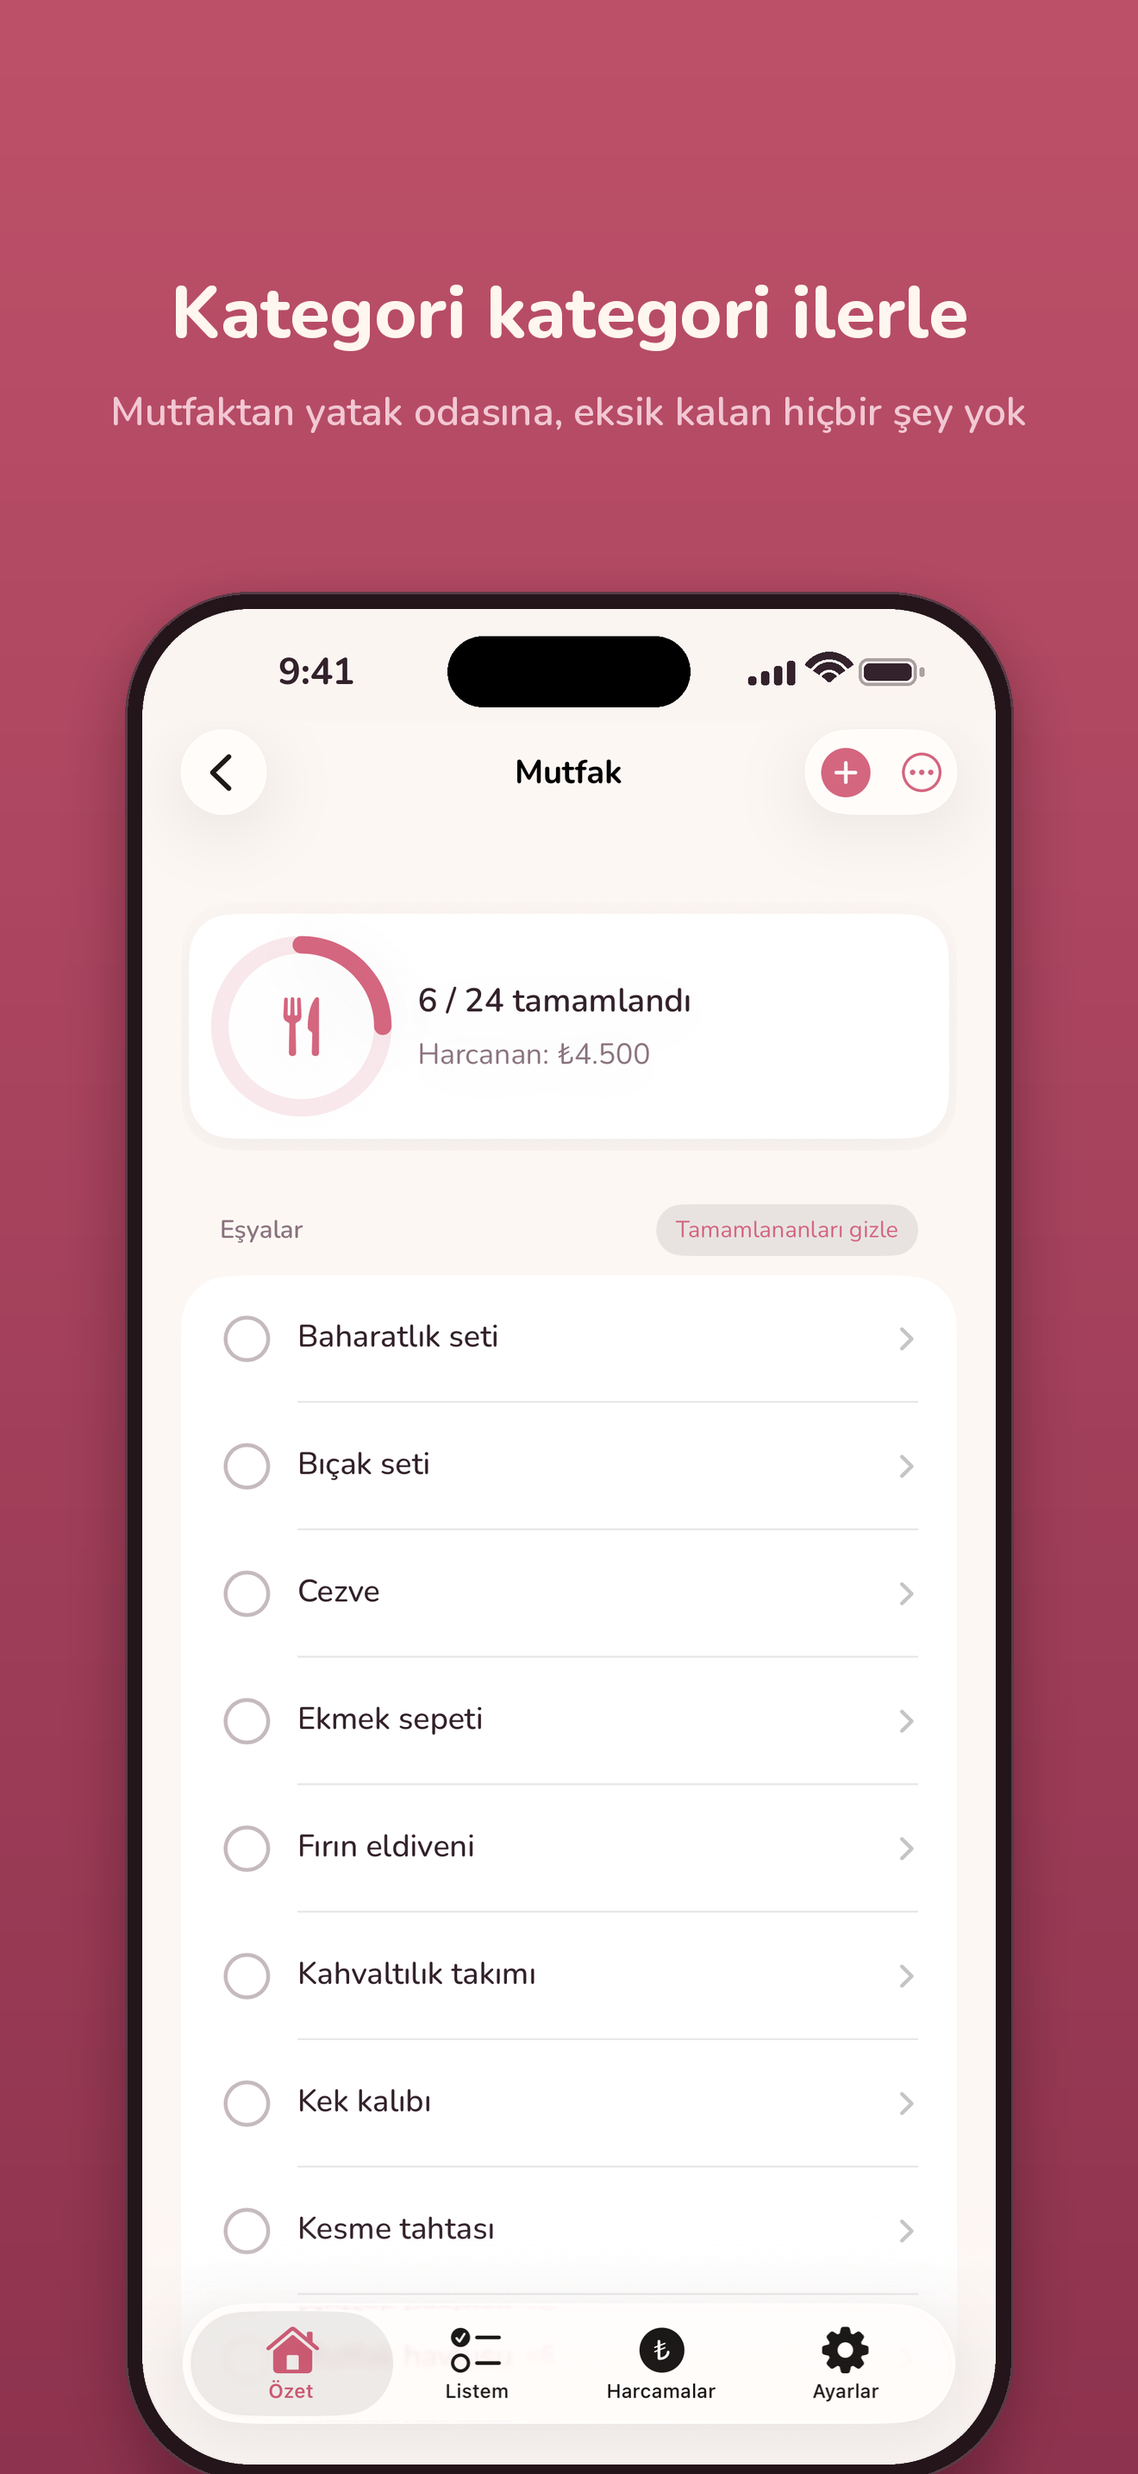
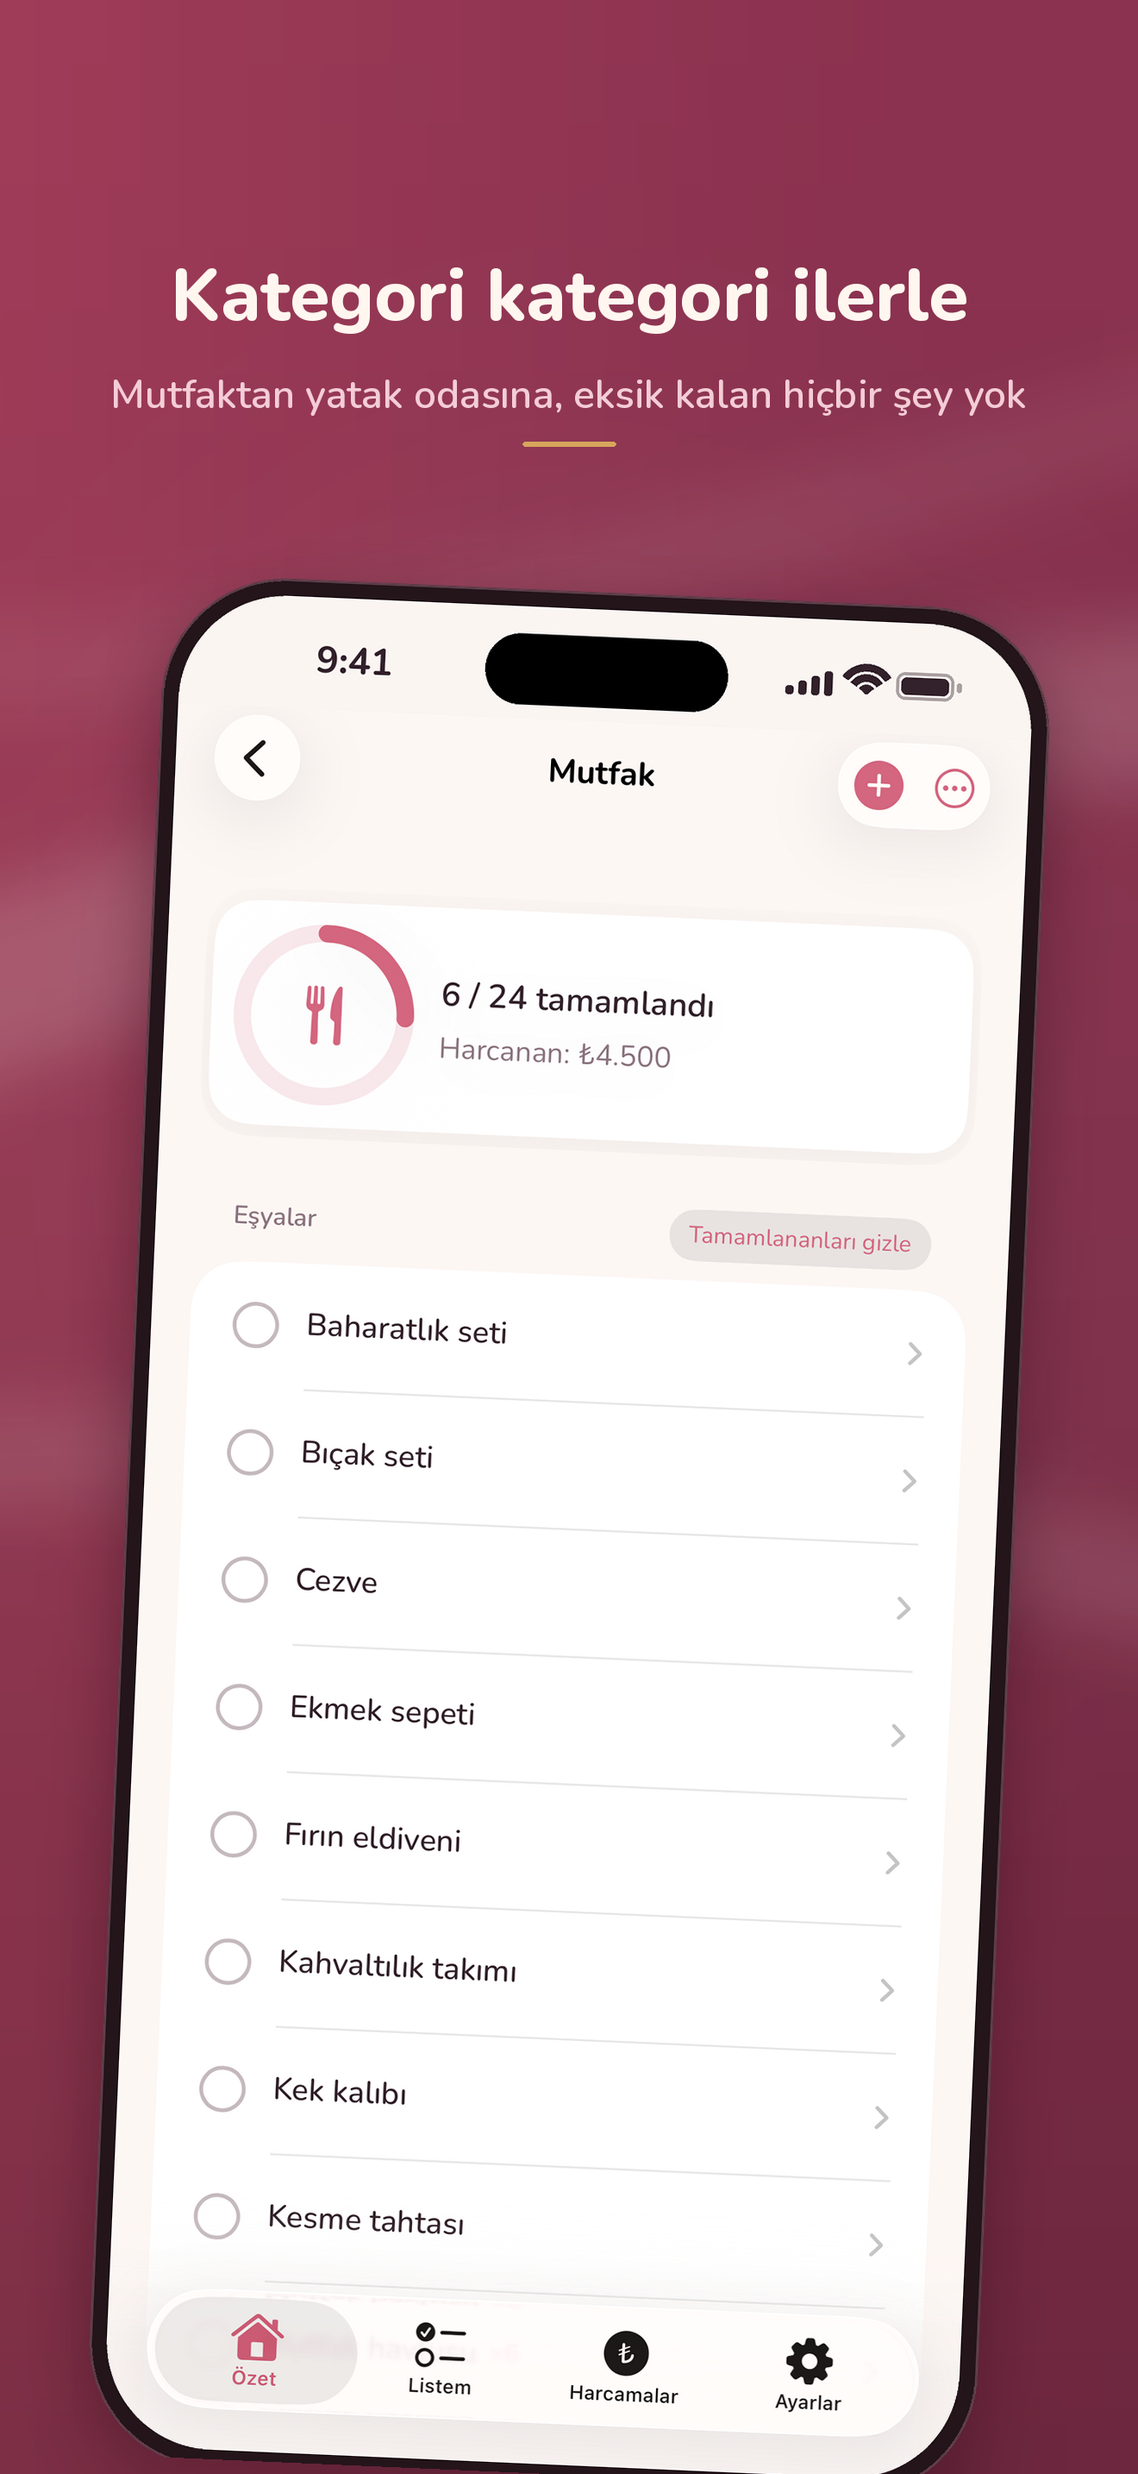
Mağaza görsellerini tek panoramadan kes
Beş kare artık 6600×2868'lik tek bir kompozisyondan kesiliyor: zemin gradyanı,
ışık havuzları ve akan şeritler kareler boyunca kesintisiz devam ediyor, yani
galeride kaydırırken beş ayrı kart yerine tek bir tanıtım görseli gibi
okunuyor. Cihazlar sırayla ±2,5° eğilip bir aşağı bir yukarı kayıyor; başlıklar
sabit hizada kalıyor ki kaydırma sırasında zıplamasın.

Alt başlığın altına ortak altın ince çizgi eklendi — her karede aynı yerde
durduğu için geçişi bağlayan tek sabit öğe o.

Claude-Session: https://claude.ai/code/session_015vuA6t9X21eUUkwfMAmhuC

diff --git a/Tools/make-appstore-screenshots.py b/Tools/make-appstore-screenshots.py
@@ -2,18 +2,22 @@
 """Turns raw simulator captures into App Store product page screenshots.
 
     python3 -m pip install pillow
-    python3 Tools/make-appstore-screenshots.py
+    python3 Tools/make-appstore-screenshots.py            # all five
+    python3 Tools/make-appstore-screenshots.py 02-listem.png
 
 Input :  AppStore/screenshots/raw/*.png   (6.9" captures, 1320×2868)
 Output:  AppStore/screenshots/*.png       (same names, ready to upload)
 
-Each output frame gets the brand ground, a Turkish headline + supporting line,
-a device body around the capture, and a normalised status bar (9:41, full
-signal) so the gallery looks deliberate instead of like five raw captures.
+The five frames are cut out of ONE 6600×2868 panorama, so the ground, the light
+and the ribbons run straight through the gallery: swiping reads as a single
+composition rather than five separate cards. Devices alternate a small tilt and
+a vertical offset for rhythm, while the headlines stay on a fixed baseline so
+they do not jump around during the swipe.
 
 Re-run it after every recapture; nothing here is hand-edited.
 """
 
+import math
 import os
 import sys
 from PIL import Image, ImageDraw, ImageFilter, ImageFont
@@ -26,40 +30,75 @@ FONT_DIR = os.path.join(ROOT, "Ceyizim", "Fonts")
 # 6.9" App Store size. Captures are expected at exactly this size.
 W, H = 1320, 2868
 
-# Brand — same values as Theme.swift / the app icon.
-GROUND_TOP = (0xBD, 0x50, 0x69)
-GROUND_BOTTOM = (0x8E, 0x33, 0x4F)
+# Brand — same values as Theme.swift and the app icon.
 HEADLINE = (0xFF, 0xF6, 0xEF)
-SUBLINE = (0xF2, 0xC8, 0xD3)
+SUBLINE = (0xF4, 0xCD, 0xD7)
+IVORY = (0xF8, 0xF1, 0xE9)
+GOLD = (0xD7, 0xA6, 0x5C)
 BEZEL = (0x24, 0x15, 0x1B)
 BEZEL_EDGE = (0x5A, 0x3B, 0x47)
 STATUS_FG = (0x33, 0x22, 0x2B)
 
-# Screenshot order is the App Store order. Headlines stay short enough to fit
-# two lines at 1320 px wide; the second line is the supporting detail.
+# Ground colour along the panorama: (position 0…1, colour). The gallery opens
+# and closes light and dips into plum in the middle, so consecutive frames are
+# always visibly different without any hard edge between them.
+GROUND_STOPS = [
+    (0.00, 0xC2566E),
+    (0.30, 0xA8405C),
+    (0.58, 0x8B3250),
+    (0.82, 0xA33E5B),
+    (1.00, 0xBE5169),
+]
+GROUND_SHADE = 0.22        # how much darker the bottom edge is
+
+# (file, headline, subline, tilt°, device dy)
 SHOTS = [
     ("01-ozet.png",
      "Çeyizin tek bakışta",
-     "İlerleme, harcama ve düğüne kalan gün"),
+     "İlerleme, harcama ve düğüne kalan gün",
+     -2.5, 0),
     ("02-listem.png",
      "Hazır listeyle hemen başla",
-     "10 kategori, 111 eşya — tek dokunuşla işaretle"),
+     "10 kategori, 111 eşya — tek dokunuşla işaretle",
+     2.5, 54),
     ("03-kategori-detay.png",
      "Kategori kategori ilerle",
-     "Mutfaktan yatak odasına, eksik kalan hiçbir şey yok"),
+     "Mutfaktan yatak odasına, eksik kalan hiçbir şey yok",
+     -2.5, 0),
     ("04-harcamalar.png",
      "Hesabı uygulama tutsun",
-     "Toplam, kategori grafiği ve en büyük harcamalar"),
+     "Toplam, kategori grafiği ve en büyük harcamalar",
+     2.5, 54),
     ("05-esya-detay.png",
      "Her eşyanın kendi kartı",
-     "Fotoğraf, mağaza, fiyat, hediye eden ve not"),
+     "Fotoğraf, mağaza, fiyat, hediye eden ve not",
+     -2.5, 0),
 ]
+
+PANO_W = W * len(SHOTS)
+
+# Ribbons sweeping across the whole panorama, behind the devices.
+# (vertical centre, amplitude, wavelength, phase, thickness, opacity)
+# Most of the middle band is hidden behind the phones, so the ribbons are
+# placed where they actually show: across the caption area and in the margins
+# beside the devices, where each one disappears behind a phone and comes back
+# out on the other side.
+RIBBONS = [
+    (1120, 300, 5400, 0.0, 360, 0.165),
+    (2020, 340, 6900, 2.1, 240, 0.110),
+    (560, 210, 4300, 4.0, 110, 0.070),
+]
+
+# A soft light sits behind every device so the frames have depth and the swipe
+# has a visible beat. (radius, opacity)
+GLOW = (760, 0.085)
 
 # Layout
 MARGIN = 110
-TEXT_TOP, TEXT_BOTTOM = 150, 660      # headline + subline live between these
+TEXT_TOP, TEXT_BOTTOM = 150, 660       # headline + subline live between these
 HEADLINE_SIZE, HEADLINE_LEADING = 84, 104
 SUBLINE_SIZE, SUBLINE_GAP = 46, 36
+RULE_GAP = 40                          # gold hairline under the subline
 SCREEN_W = 990                         # width of the capture inside the frame
 SCREEN_TOP = 706
 BEZEL_PAD = 20
@@ -75,15 +114,83 @@ def font(name, size):
     return ImageFont.truetype(os.path.join(FONT_DIR, name), size)
 
 
-def ground():
-    small = Image.new("RGB", (4, 64))
+def rgb(value):
+    return ((value >> 16) & 0xFF, (value >> 8) & 0xFF, value & 0xFF)
+
+
+# ---------------------------------------------------------------- panorama
+
+def _ground_at(t):
+    """Colour of the panorama ground at horizontal position t (0…1)."""
+    for i in range(len(GROUND_STOPS) - 1):
+        t0, c0 = GROUND_STOPS[i]
+        t1, c1 = GROUND_STOPS[i + 1]
+        if t0 <= t <= t1:
+            k = 0 if t1 == t0 else (t - t0) / (t1 - t0)
+            k = k * k * (3 - 2 * k)                     # smoothstep
+            a, b = rgb(c0), rgb(c1)
+            return tuple(a[j] + (b[j] - a[j]) * k for j in range(3))
+    return rgb(GROUND_STOPS[-1][1])
+
+
+def _ground():
+    """Horizontal brand gradient with a soft vertical falloff."""
+    gw, gh = 160, 40
+    small = Image.new("RGB", (gw, gh))
     px = small.load()
-    for y in range(64):
-        t = y / 63.0
-        c = tuple(round(GROUND_TOP[i] + (GROUND_BOTTOM[i] - GROUND_TOP[i]) * t) for i in range(3))
-        for x in range(4):
-            px[x, y] = c
-    return small.resize((W, H), Image.BICUBIC)
+    for x in range(gw):
+        base = _ground_at(x / (gw - 1))
+        for y in range(gh):
+            shade = 1 - GROUND_SHADE * (y / (gh - 1)) ** 1.4
+            px[x, y] = tuple(round(base[i] * shade) for i in range(3))
+    return small.resize((PANO_W, H), Image.BICUBIC)
+
+
+def _ribbon_mask(centre, amplitude, wavelength, phase, thickness, scale=4):
+    """One sine band across the panorama, drawn small and scaled up."""
+    w, h = PANO_W // scale, H // scale
+    m = Image.new("L", (w, h), 0)
+    d = ImageDraw.Draw(m)
+    top, bottom = [], []
+    steps = 240
+    for i in range(steps + 1):
+        x = w * i / steps
+        angle = 2 * math.pi * (x * scale) / wavelength + phase
+        y = (centre + amplitude * math.sin(angle)) / scale
+        half = (thickness / 2) * (0.75 + 0.25 * math.cos(angle * 0.7)) / scale
+        top.append((x, y - half))
+        bottom.append((x, y + half))
+    d.polygon(top + bottom[::-1], fill=255)
+    m = m.filter(ImageFilter.GaussianBlur(9))
+    return m.resize((PANO_W, H), Image.BICUBIC)
+
+
+def _glow_mask(scale=4):
+    """One soft pool of light per frame, following the device offsets."""
+    radius, opacity = GLOW
+    w, h = PANO_W // scale, H // scale
+    m = Image.new("L", (w, h), 0)
+    d = ImageDraw.Draw(m)
+    for index, shot in enumerate(SHOTS):
+        cx = (index * W + W / 2) / scale
+        cy = (SCREEN_TOP + shot[4] + 620) / scale
+        r = radius / scale
+        for step in range(6, 0, -1):
+            rr = r * step / 6
+            d.ellipse([cx - rr, cy - rr * 1.25, cx + rr, cy + rr * 1.25],
+                      fill=round(255 * opacity * (1 - step / 7)))
+    m = m.filter(ImageFilter.GaussianBlur(26))
+    return m.resize((PANO_W, H), Image.BICUBIC)
+
+
+def panorama():
+    canvas = _ground().convert("RGBA")
+    for centre, amp, wave, phase, thick, opacity in RIBBONS:
+        m = _ribbon_mask(centre, amp, wave, phase, thick)
+        m = m.point(lambda v: round(v * opacity))
+        canvas.paste(Image.new("RGBA", (PANO_W, H), IVORY + (255,)), (0, 0), m)
+    canvas.paste(Image.new("RGBA", (PANO_W, H), IVORY + (255,)), (0, 0), _glow_mask())
+    return canvas
 
 
 # --------------------------------------------------------------- status bar
@@ -100,20 +207,16 @@ def normalise_status_bar(shot):
     d.text((270 - (bb[2] - bb[0]) / 2 - bb[0], 96 - (bb[3] - bb[1]) / 2 - bb[1]),
            "9:41", font=f, fill=STATUS_FG)
 
-    # cellular
     x = 937
-    for i, h in enumerate((13, 21, 29, 37)):
+    for h in (13, 21, 29, 37):
         d.rounded_rectangle([x, 117 - h, x + 12, 117], radius=4, fill=STATUS_FG)
         x += 20
 
-    # wifi — three arcs and a dot
     cx, cy = 1062, 112
-    for r, wdt in ((46, 12), (30, 12), (14, 12)):
-        d.arc([cx - r, cy - r, cx + r, cy + r], start=215, end=325, fill=STATUS_FG, width=wdt)
+    for r in (46, 30, 14):
+        d.arc([cx - r, cy - r, cx + r, cy + r], start=215, end=325, fill=STATUS_FG, width=12)
     d.ellipse([cx - 6, cy - 12, cx + 6, cy], fill=STATUS_FG)
 
-    # battery
-    d.rounded_rectangle([1108, 76, 1197, 118], radius=14, outline=STATUS_FG + (0,), width=5)
     faded = tuple(round(STATUS_FG[i] + (bg[i] - STATUS_FG[i]) * 0.6) for i in range(3))
     d.rounded_rectangle([1108, 76, 1197, 118], radius=14, outline=faded, width=5)
     d.rounded_rectangle([1116, 84, 1189, 110], radius=8, fill=STATUS_FG)
@@ -133,34 +236,46 @@ def rounded(img, radius):
     return out
 
 
-def place_device(canvas, shot):
+def device_layer(shot, dy):
+    """Device body + screen on a transparent frame-sized layer."""
     scale = SCREEN_W / W
     screen = shot.resize((SCREEN_W, round(H * scale)), Image.LANCZOS)
     sx = (W - SCREEN_W) // 2
-    sy = SCREEN_TOP
-    bez = [sx - BEZEL_PAD, sy - BEZEL_PAD, sx + screen.width + BEZEL_PAD, sy + screen.height + BEZEL_PAD]
+    sy = SCREEN_TOP + dy
+    bez = [sx - BEZEL_PAD, sy - BEZEL_PAD,
+           sx + screen.width + BEZEL_PAD, sy + screen.height + BEZEL_PAD]
     radius = SCREEN_RADIUS + BEZEL_PAD
 
-    shadow = Image.new("L", (W, H), 0)
-    ImageDraw.Draw(shadow).rounded_rectangle([bez[0], bez[1] + 26, bez[2], bez[3] + 26],
-                                             radius=radius, fill=110)
-    shadow = shadow.filter(ImageFilter.GaussianBlur(34))
-    canvas.paste(Image.new("RGBA", (W, H), (0x3A, 0x10, 0x1F, 255)), (0, 0), shadow)
+    layer = Image.new("RGBA", (W, H), (0, 0, 0, 0))
+    d = ImageDraw.Draw(layer)
+    d.rounded_rectangle(bez, radius=radius, fill=BEZEL + (255,))
+    d.rounded_rectangle(bez, radius=radius, outline=BEZEL_EDGE + (255,), width=3)
+    layer.alpha_composite(rounded(screen, SCREEN_RADIUS), (sx, sy))
+    return layer, bez, radius
 
-    body = Image.new("RGBA", (W, H), (0, 0, 0, 0))
-    bd = ImageDraw.Draw(body)
-    bd.rounded_rectangle(bez, radius=radius, fill=BEZEL + (255,))
-    bd.rounded_rectangle(bez, radius=radius, outline=BEZEL_EDGE + (255,), width=3)
-    canvas.alpha_composite(body)
-    canvas.alpha_composite(rounded(screen, SCREEN_RADIUS), (sx, sy))
+
+def place_device(canvas, shot, tilt, dy):
+    layer, bez, radius = device_layer(shot, dy)
+    centre = ((bez[0] + bez[2]) / 2, (bez[1] + bez[3]) / 2)
+
+    shadow = Image.new("L", (W, H), 0)
+    ImageDraw.Draw(shadow).rounded_rectangle([bez[0], bez[1] + 30, bez[2], bez[3] + 30],
+                                             radius=radius, fill=120)
+    if tilt:
+        shadow = shadow.rotate(tilt, resample=Image.BICUBIC, center=centre)
+    shadow = shadow.filter(ImageFilter.GaussianBlur(38))
+    canvas.paste(Image.new("RGBA", (W, H), (0x38, 0x0E, 0x1D, 255)), (0, 0), shadow)
+
+    if tilt:
+        layer = layer.rotate(tilt, resample=Image.BICUBIC, center=centre)
+    canvas.alpha_composite(layer)
 
 
 # --------------------------------------------------------------------- text
 
 def wrap(draw, text, f, max_width):
-    words = text.split()
     lines, line = [], ""
-    for word in words:
+    for word in text.split():
         trial = (line + " " + word).strip()
         if draw.textlength(trial, font=f) <= max_width or not line:
             line = trial
@@ -180,7 +295,8 @@ def draw_text(canvas, headline, subline):
 
     head_lines = wrap(d, headline, hf, max_w)
     sub_lines = wrap(d, subline, sf, max_w)
-    block = len(head_lines) * HEADLINE_LEADING + SUBLINE_GAP + len(sub_lines) * (SUBLINE_SIZE + 12)
+    block = (len(head_lines) * HEADLINE_LEADING + SUBLINE_GAP
+             + len(sub_lines) * (SUBLINE_SIZE + 12) + RULE_GAP)
     y = TEXT_TOP + max(0, (TEXT_BOTTOM - TEXT_TOP - block) // 2)
 
     for line in head_lines:
@@ -191,19 +307,21 @@ def draw_text(canvas, headline, subline):
         d.text((W / 2, y), line, font=sf, fill=SUBLINE, anchor="ma")
         y += SUBLINE_SIZE + 12
 
+    # gold hairline — the one element every frame shares, at the same baseline
+    y += RULE_GAP - 12
+    d.rounded_rectangle([W / 2 - 54, y, W / 2 + 54, y + 5], radius=3, fill=GOLD + (210,))
+
 
 # --------------------------------------------------------------------- main
 
-def build(name, headline, subline):
-    src = os.path.join(RAW_DIR, name)
-    shot = Image.open(src).convert("RGB")
+def build(index, name, headline, subline, tilt, dy, pano):
+    shot = Image.open(os.path.join(RAW_DIR, name)).convert("RGB")
     if shot.size != (W, H):
         raise SystemExit(f"{name}: expected {W}×{H} (6.9\" capture), got {shot.size[0]}×{shot.size[1]}")
     shot = normalise_status_bar(shot)
 
-    canvas = Image.new("RGBA", (W, H), (0, 0, 0, 255))
-    canvas.paste(ground(), (0, 0))
-    place_device(canvas, shot)
+    canvas = pano.crop((index * W, 0, (index + 1) * W, H))
+    place_device(canvas, shot, tilt, dy)
     draw_text(canvas, headline, subline)
 
     out = os.path.join(OUT_DIR, name)
@@ -216,10 +334,11 @@ def main():
         raise SystemExit(f"missing {RAW_DIR} — put the simulator captures there")
     os.makedirs(OUT_DIR, exist_ok=True)
     only = sys.argv[1:]
-    for name, headline, subline in SHOTS:
+    pano = panorama()
+    for index, (name, headline, subline, tilt, dy) in enumerate(SHOTS):
         if only and name not in only:
             continue
-        build(name, headline, subline)
+        build(index, name, headline, subline, tilt, dy, pano)
 
 
 if __name__ == "__main__":

diff --git a/README.md b/README.md
@@ -70,7 +70,9 @@ Sandık + altın kalp; ölçüler `MARK_SCALE` / `MARK_DY` ile tek yerden ayarla
 python3 Tools/make-appstore-screenshots.py            # hepsi
 python3 Tools/make-appstore-screenshots.py 02-listem.png   # tek dosya
 ```
-Araç markalı zemini, Türkçe başlığı, cihaz gövdesini ve temiz durum çubuğunu (9:41, dolu sinyal) ekler. Başlık metinleri betiğin içindeki `SHOTS` listesinde — metni orada değiştir, `AppStore/screenshots/*.png` elle düzenlenmez.
+Beş kare tek bir 6600×2868 panoramadan kesiliyor: zemin, ışık ve şeritler galeri boyunca kesintisiz akıyor, yani mağazada kaydırınca beş ayrı kart değil tek bir kompozisyon gibi duruyor. Cihazlar sırayla ±2,5° eğiliyor ve bir aşağı bir yukarı kayıyor; başlıklar ise sabit hizada kalıyor ki kaydırırken zıplamasın. Her karede ayrıca Türkçe başlık + alt başlık, altın ince çizgi, cihaz gövdesi ve normalize edilmiş durum çubuğu (9:41, dolu sinyal) var.
+
+Başlıklar, eğim açısı ve dikey kayma betiğin içindeki `SHOTS` listesinde; zemin renkleri `GROUND_STOPS`, akan şeritler `RIBBONS`. `AppStore/screenshots/*.png` elle düzenlenmez.
 
 `-ceyizimDemoData` olmadan yakalarsan mağaza sayfası 111 eşyanın 5'i alınmış, grafiği boş bir uygulama gösterir; dönüşümü asıl düşüren şey bu.
 

diff --git a/AppStore/metadata.md b/AppStore/metadata.md
@@ -80,7 +80,7 @@ How to test:
 Photo attachment uses PhotosPicker, which requires no photo library permission prompt.
 
 ## Ekran görüntüleri
-`AppStore/screenshots/` içindeki 5 PNG doğrudan yüklenir: iPhone 6.9" (1320×2868), başlıklı ve cihaz çerçeveli. App Store Connect 6.9" yüklendiğinde diğer iPhone boyutları için de kullanır.
+`AppStore/screenshots/` içindeki 5 PNG doğrudan yüklenir: iPhone 6.9" (1320×2868), başlıklı ve cihaz çerçeveli. Beşi tek bir panoramadan kesildiği için **sırayı bozma** — 01…05 numaraları galeri sırasıdır, zemin o sırada akıyor. App Store Connect 6.9" yüklendiğinde diğer iPhone boyutları için de kullanır.
 
 Bunlar üretilmiş dosyalar — elle düzenleme. Ham simülatör kayıtları `AppStore/screenshots/raw/` altında; başlıkları veya düzeni değiştirmek için `Tools/make-appstore-screenshots.py` içindeki `SHOTS` listesini düzenleyip betiği tekrar çalıştır (ayrıntı: README ▸ App Store görselleri).
 
